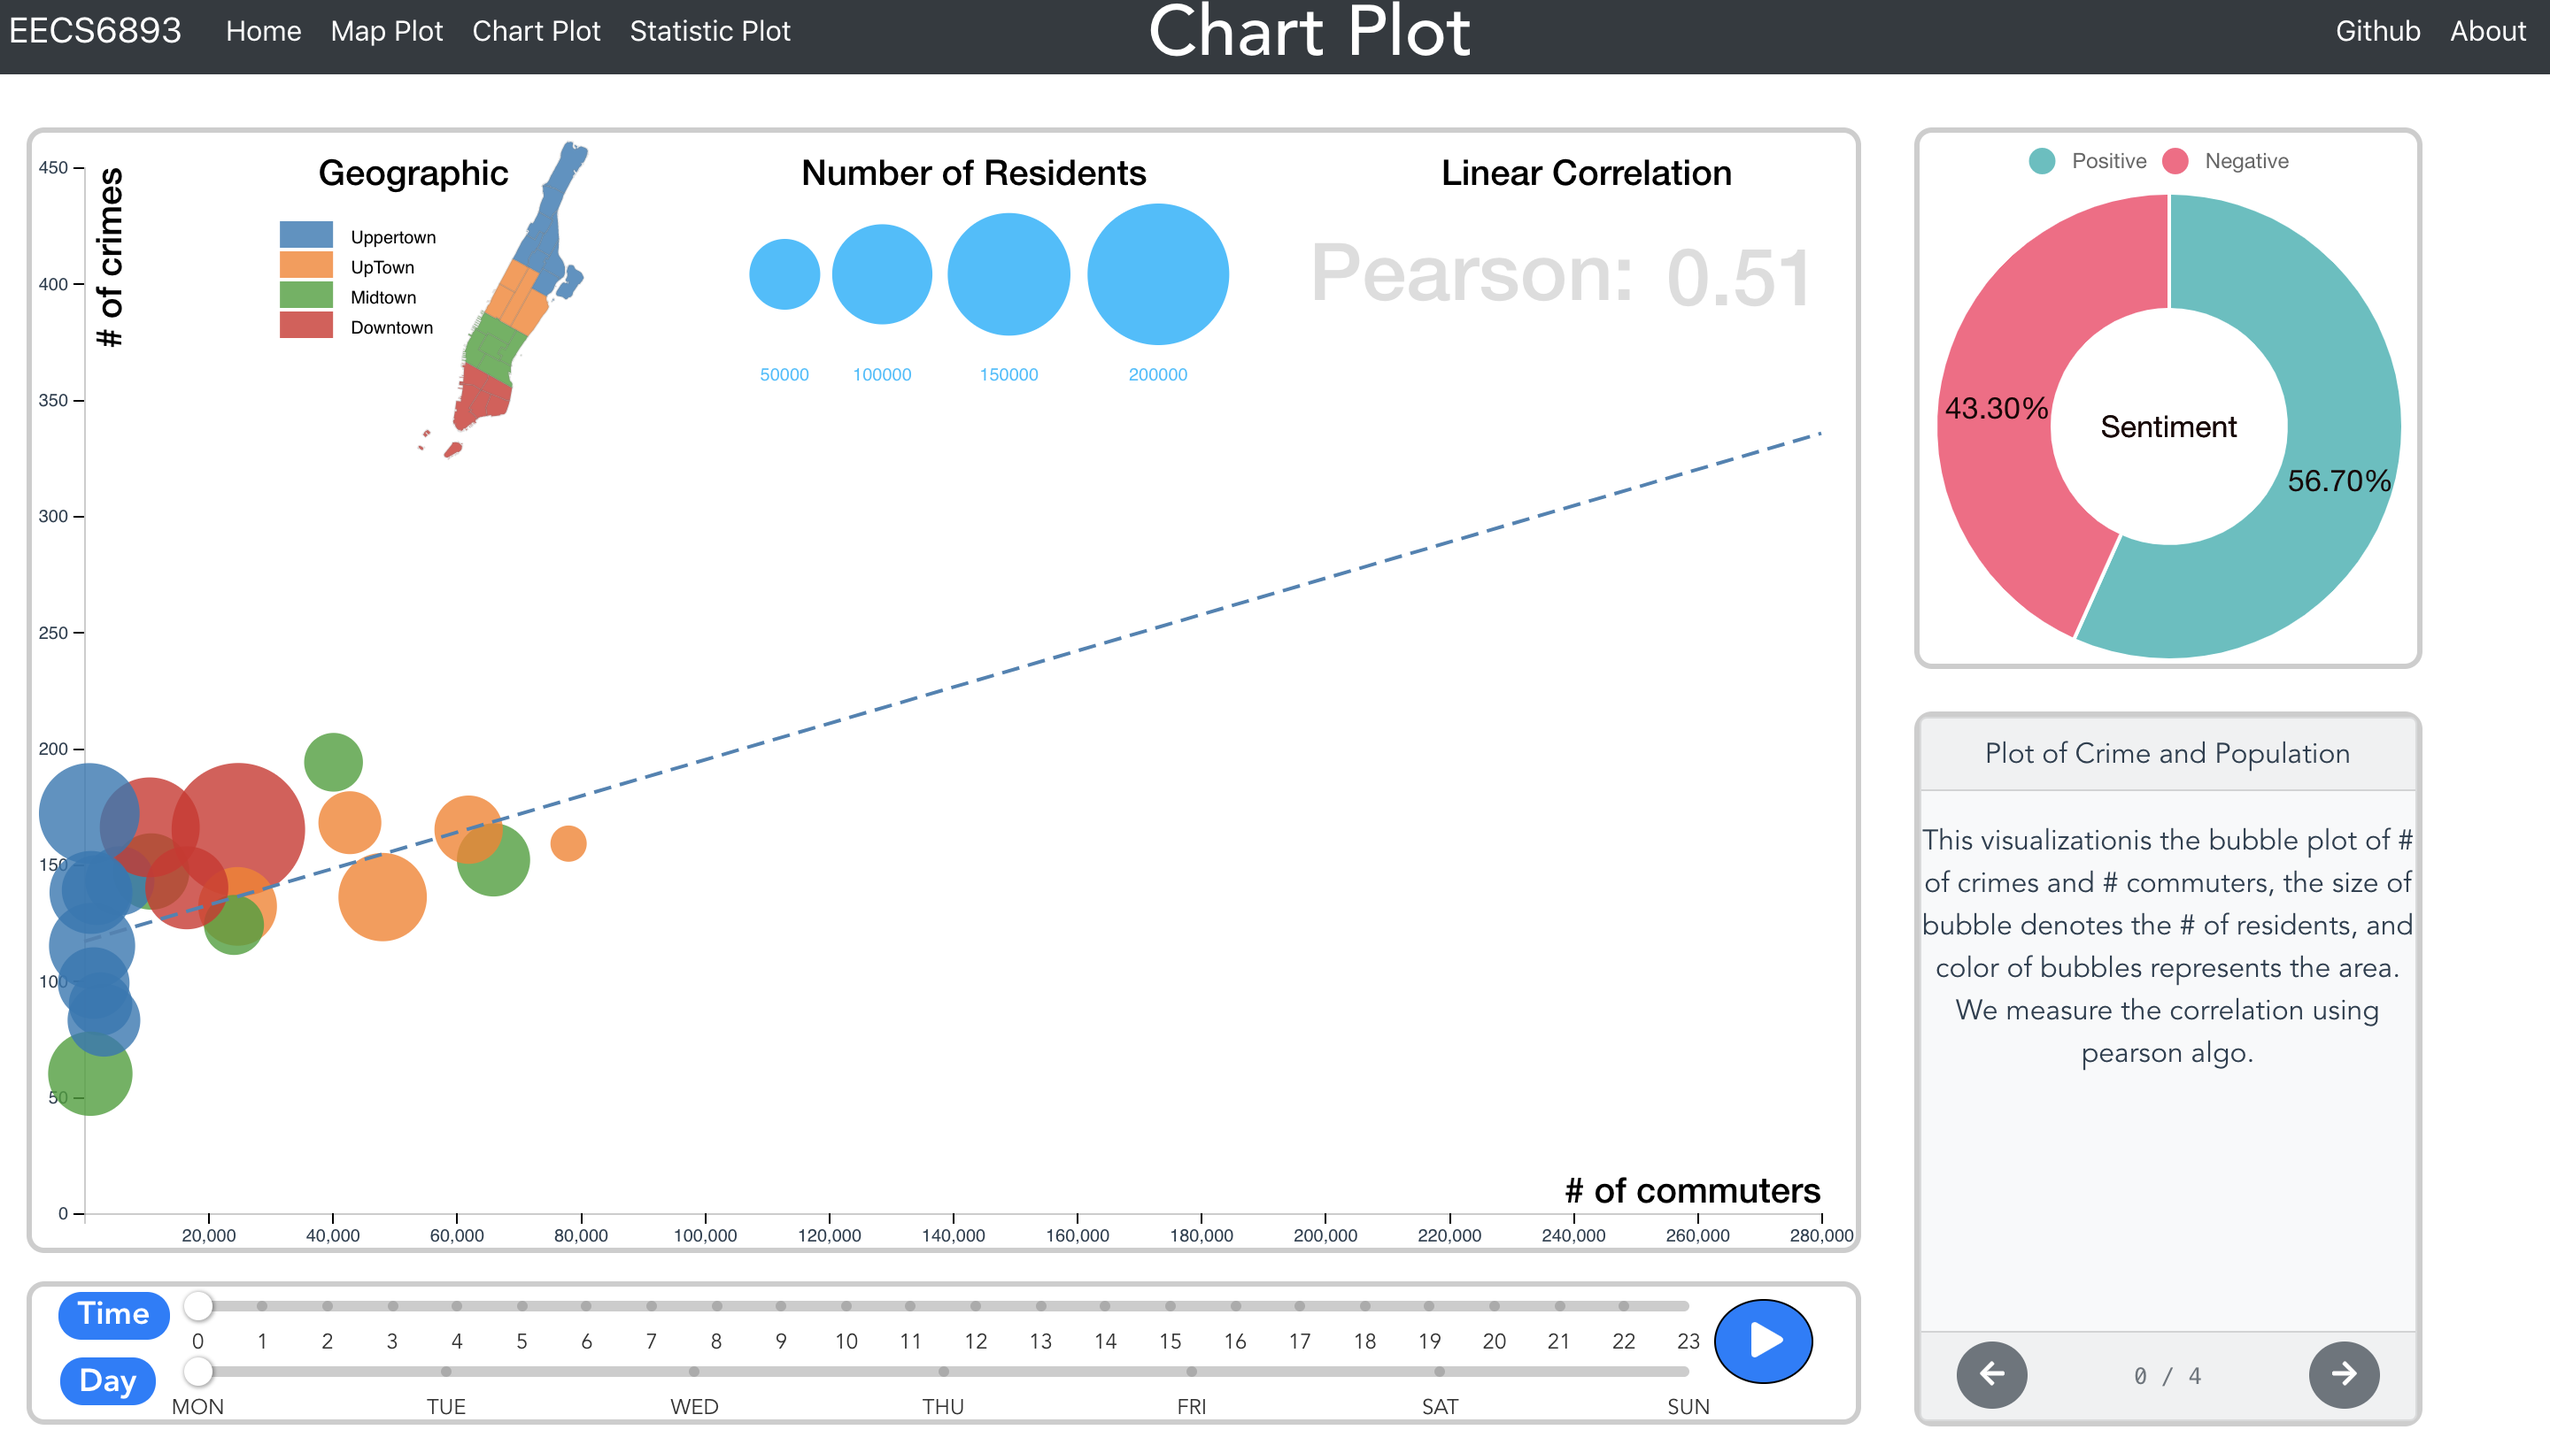
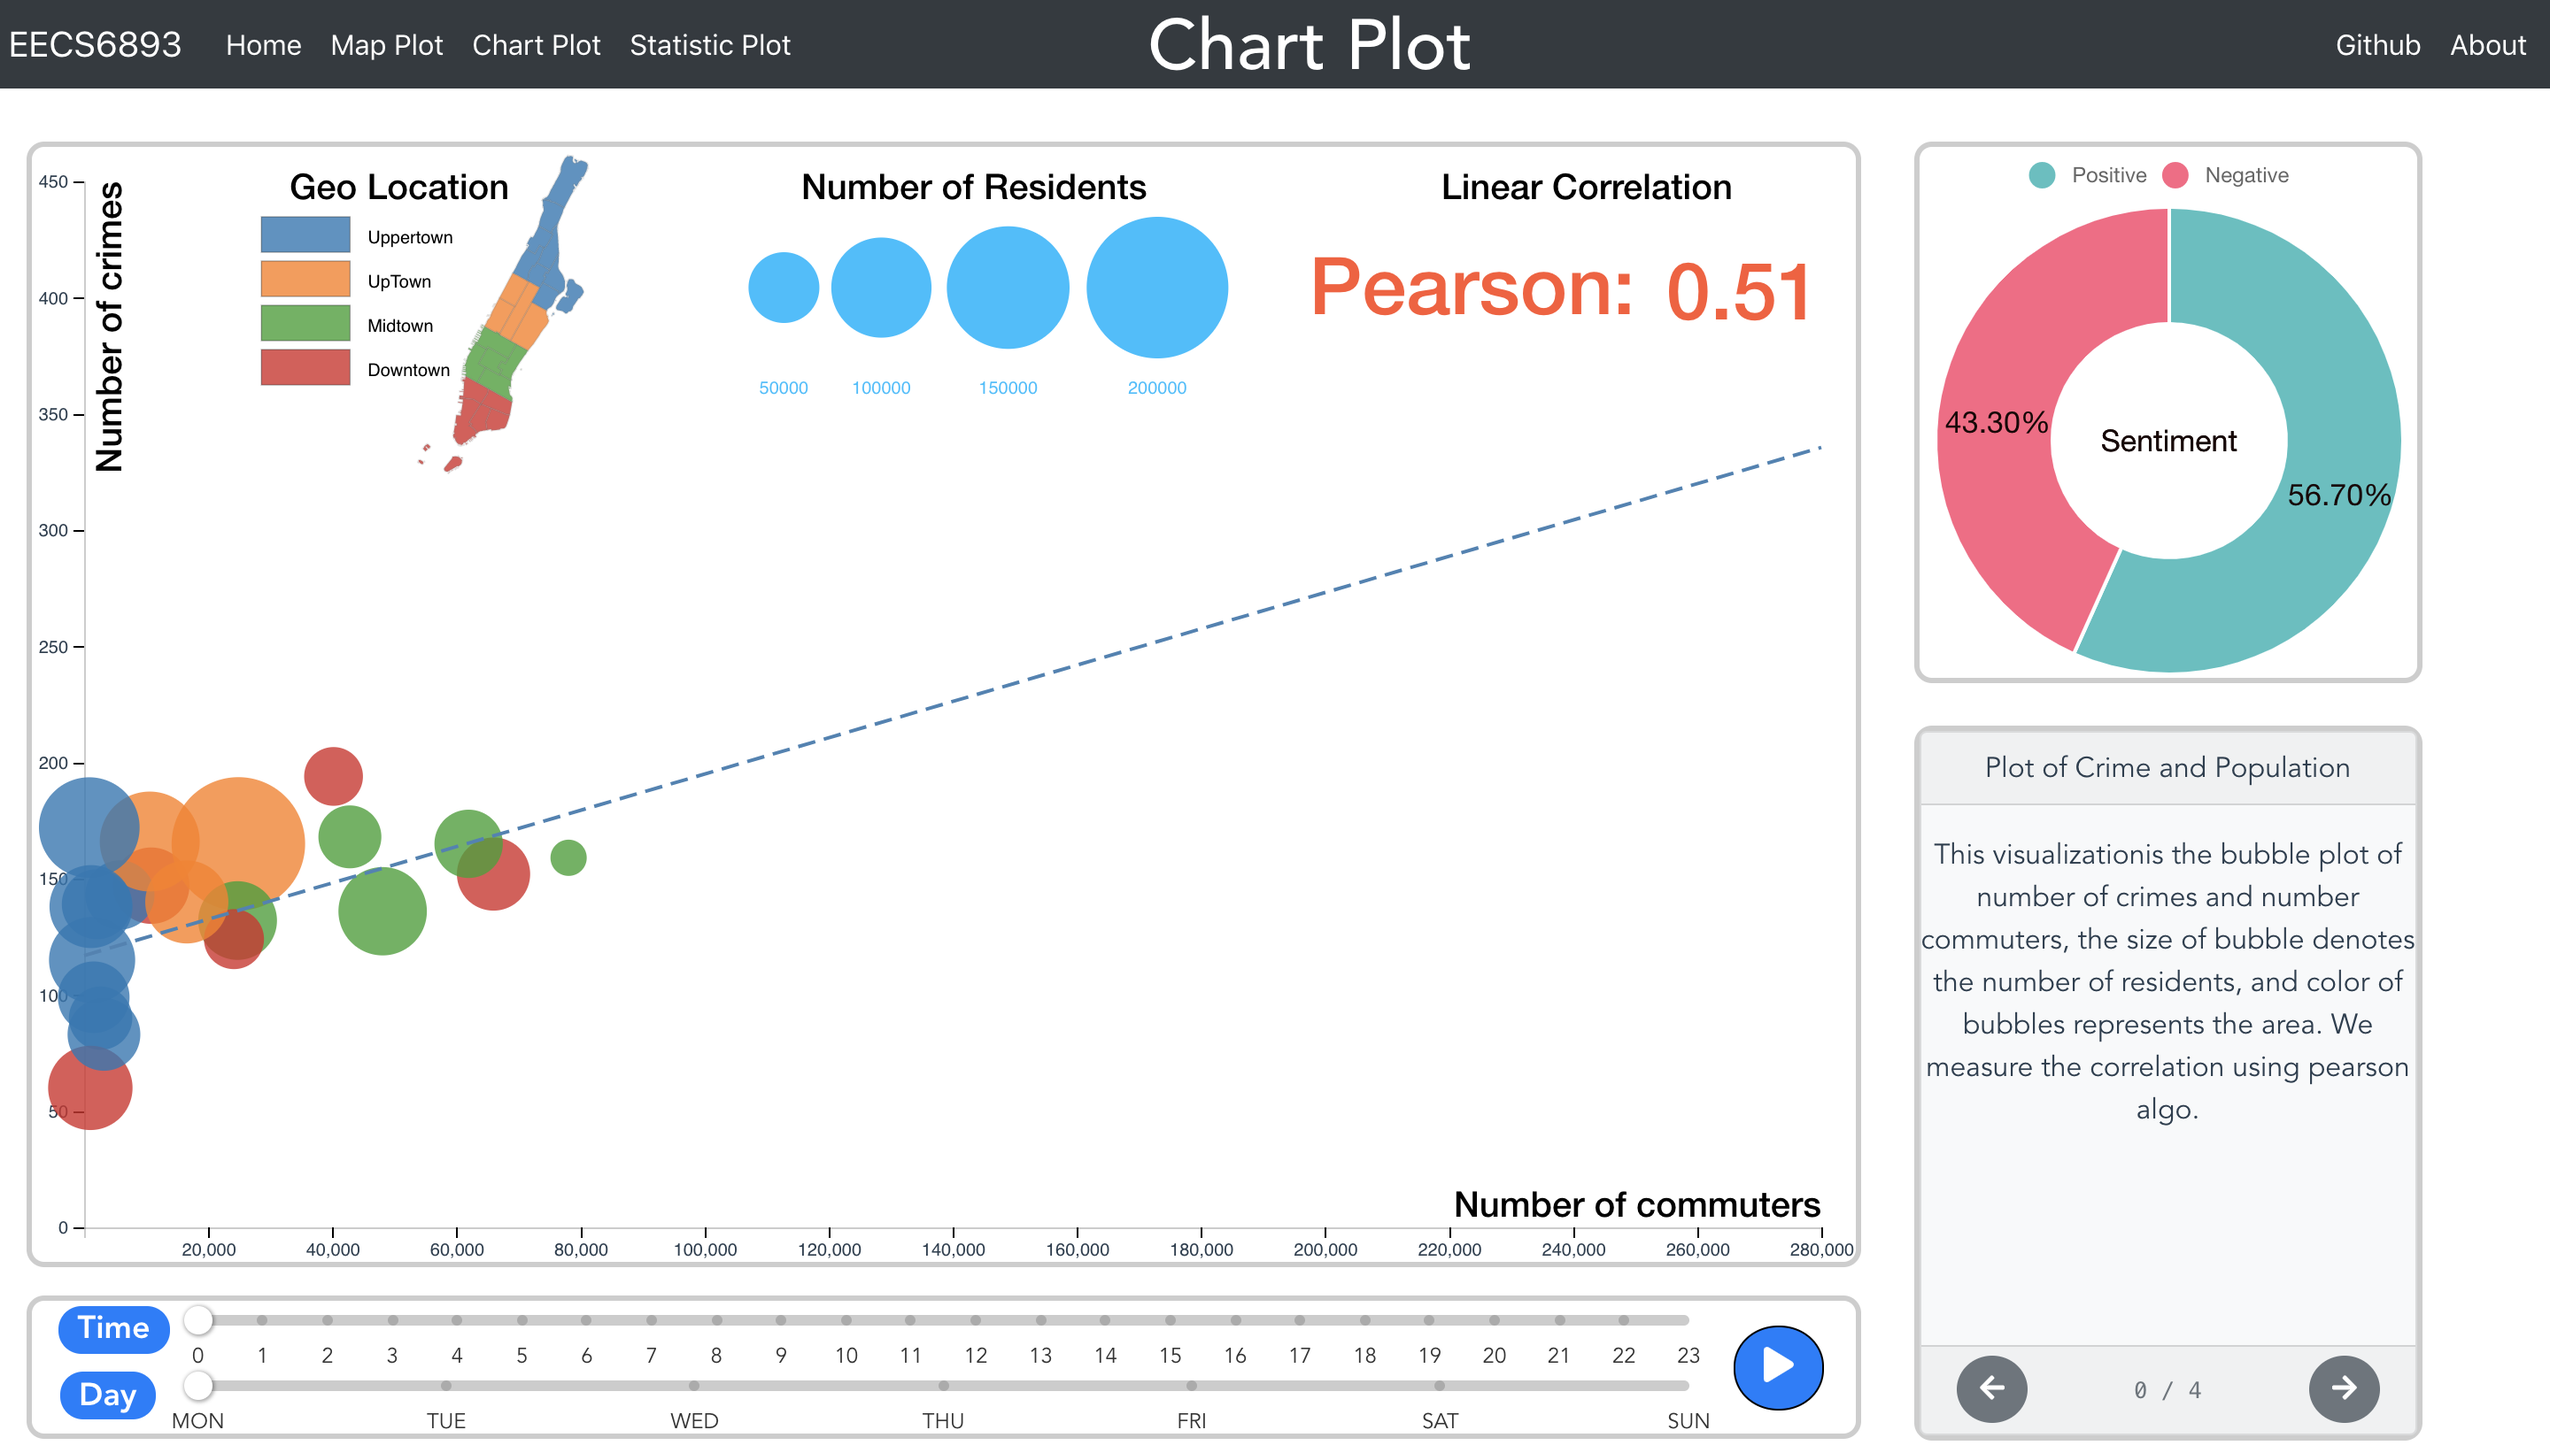
Update bubble plot

diff --git a/src/components/chart/index.vue b/src/components/chart/index.vue
@@ -127,6 +127,12 @@ const uptown = ["19", "20", "22", "24"];
 const uppertown = ["23", "25", "26", "28", "30", "32", "33", "34"];
 const color_arr = ["rgb(214, 39, 40)", "rgb(44, 160, 44)", "rgb(31, 119, 180)", "rgb(255, 127, 14)"];
 
+const legend_x = [100, 100, 100, 100];
+const legend_y = [20, 45, 70, 95];
+const legend_text = ["Uppertown", "UpTown", "Midtown", "Downtown"];
+const legend_color = ["rgb(31, 119, 180)", "rgb(255, 127, 14)", "rgb(44, 160, 44)", "rgb(214, 39, 40)"];
+
+
 export default {
   components: {
     vueSlider,
@@ -329,7 +335,9 @@ export default {
     that.xScale = d3.scaleLinear().domain([xMin, xMax]).range([0, that.width]);
     that.yScale = d3.scaleLinear().domain([yMin, yMax]).range([that.height, 0]);
     that.radiusScale = d3.scaleSqrt().domain([0, rMax]).range([0, 40]);
-    that.colorScale = d3.scaleOrdinal(d3.schemeCategory10);
+    that.colorScale = d3.scaleOrdinal()
+        .domain([0, 1, 2, 3])
+        .range([color_arr[0], color_arr[1], color_arr[3], color_arr[2]]);
 
     var xAxis = d3.axisBottom().scale(that.xScale);
     var yAxis = d3.axisLeft().scale(that.yScale);
@@ -399,6 +407,39 @@ export default {
       .attr("text-anchor", "end")
       .attr("x", that.width)
       .attr("y", 78);
+
+
+    for(var i = 0; i < 4; i++){
+      svg.append('rect')
+      .attr('x', legend_x[i])
+      .attr('y', legend_y[i])
+      .attr('width', 50)
+      .attr('height', 20)
+      .style('fill', legend_color[i])
+      .style('stroke', 'black')
+      .style('stroke-width', '.3px')
+      .style('opacity', '0.8');
+
+      svg.append('text')
+      .attr('x', legend_x[i] + 60)
+      .attr('y', legend_y[i] + 15)
+      .text(legend_text[i])
+     }
+
+    svg.append("g")
+      .attr("class", "legendSize")
+      .attr("transform", "translate(380, 40)");
+
+    var legendSize = d3Legend.legendSize()
+      .scale(that.radiusScale)
+      .shape('circle')
+      .shapePadding(15)
+      .labelOffset(20)
+      .orient('horizontal')
+      .labels(["", "50000", "100000", "150000", "200000"]);
+
+    svg.select(".legendSize")
+      .call(legendSize);
 
     const projection = d3.geoMercator()
                          .center([-73.9735, 40.78])
@@ -579,39 +620,9 @@ export default {
       var that = this;
 
       var svg = d3.select("svg");
-      svg.select(".legendGeographic").remove();
-      svg.select(".legendSize").remove();
-
-      svg.append("g")
-        .attr("class", "legendGeographic")
-        .attr("transform", "translate(140,50)");
-
-      var legendGeographic = d3Legend.legendColor()
-          .shapeWidth(30)
-          .cells(2)
-          .orient("verticle")
-          .scale(that.colorScale) 
-          .labels(["Uppertown", "UpTown", "Midtown", "Downtown"]);
-
-      svg.select(".legendGeographic")
-        .call(legendGeographic);
-
-      svg.append("g")
-        .attr("class", "legendSize")
-        .attr("transform", "translate(410, 60)");
-
-      var legendSize = d3Legend.legendSize()
-        .scale(that.radiusScale)
-        .shape('circle')
-        .shapePadding(15)
-        .labelOffset(20)
-        .orient('horizontal')
-        .labels(["", "50000", "100000", "150000", "200000"]);
-
-      svg.select(".legendSize")
-        .call(legendSize);
       let criminal_arr = [];
       let traffic_arr = [];
+
       if(that.isEmpty(that.gdots_dict)){
         var svg = d3.select("svg")
                     .append("g")
@@ -628,7 +639,7 @@ export default {
             .attr("r", that.radiusScale(val.population));
 
           that.gdots_dict[val.precinct].append("title").text("precinct_#" + val.precinct.toString());
-
+  
           criminal_arr.push(val.criminal);
           traffic_arr.push(val.traffic);
         }
@@ -675,6 +686,7 @@ export default {
           .attr("y2", that.yScale(y2))
       }
       let rho = pearsonCorrelation.pearsonCorrelation(criminal_arr, traffic_arr);
+      
       that.pearson_text.transition().text(rho.toFixed(2));
     }
   },
@@ -720,7 +732,7 @@ text {
 
 .pearson_text{
   font: 500 45px "Helvetica Neue";
-  fill: #ddd;
+  fill: #FF5733;
 }
 
 .desc_text{
